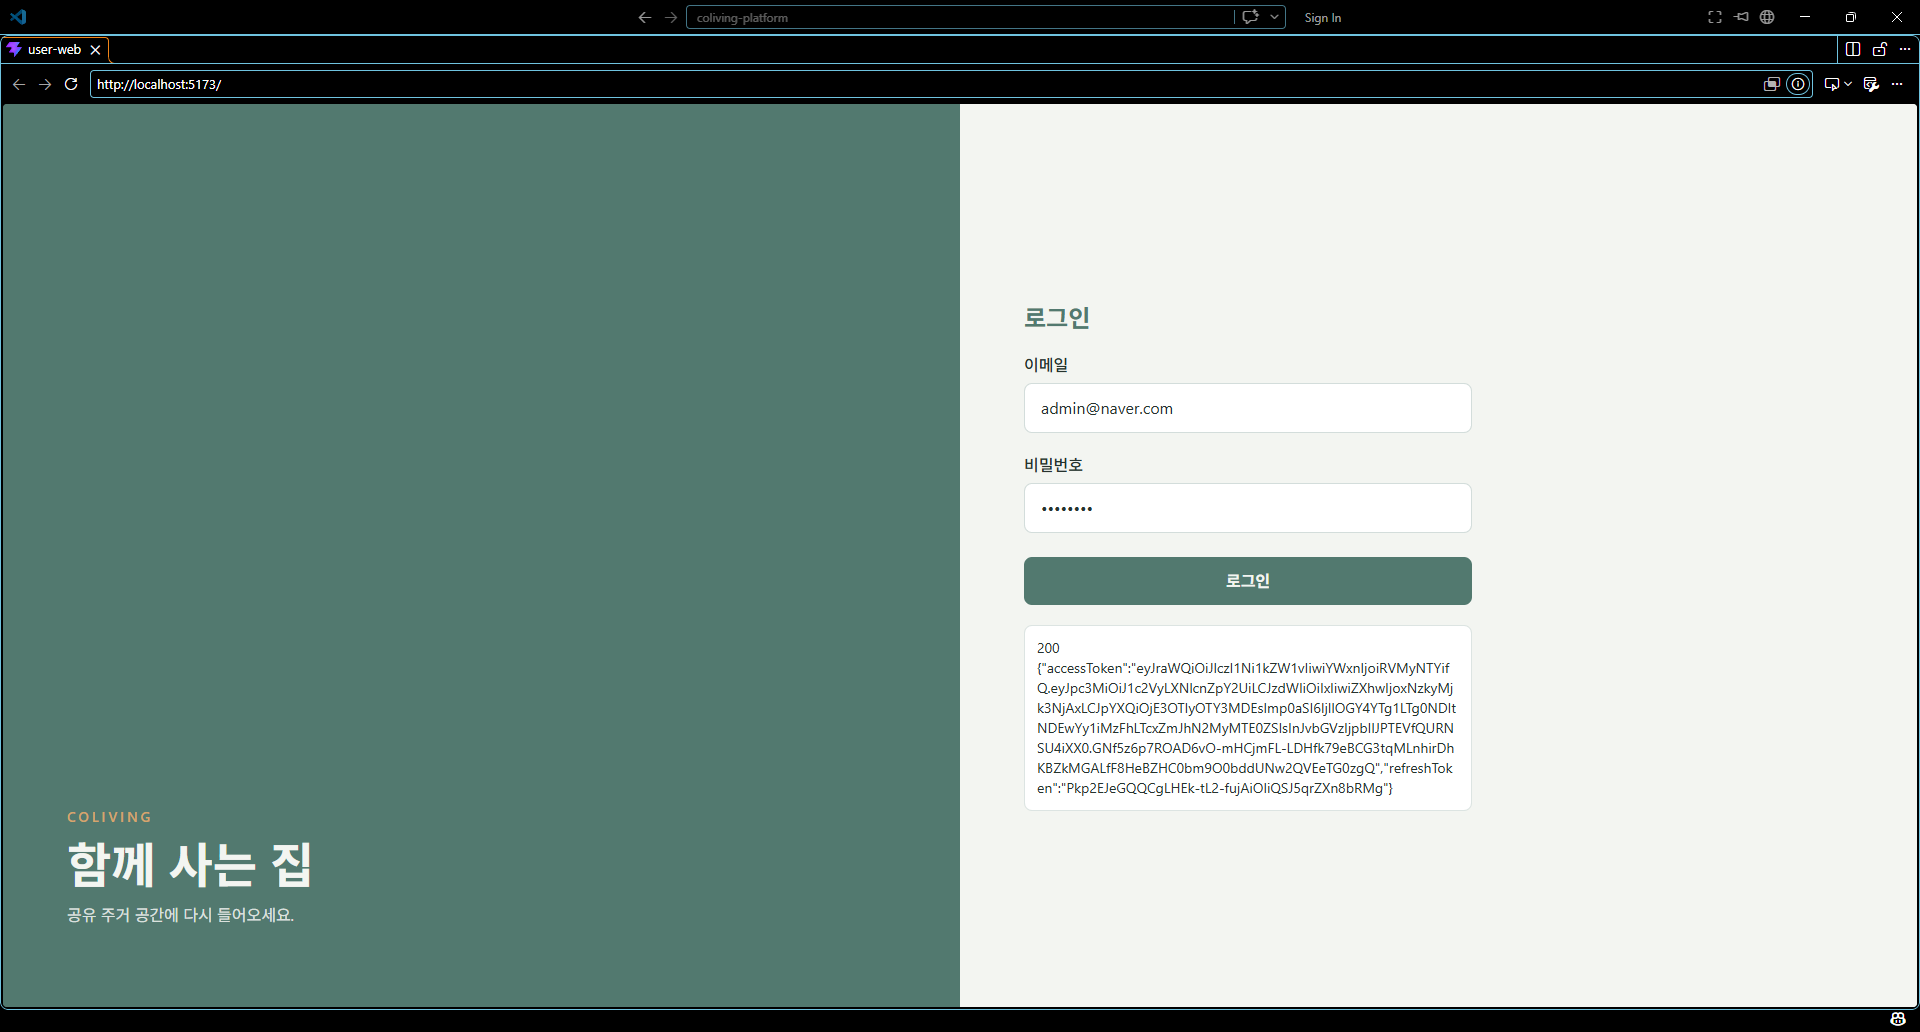
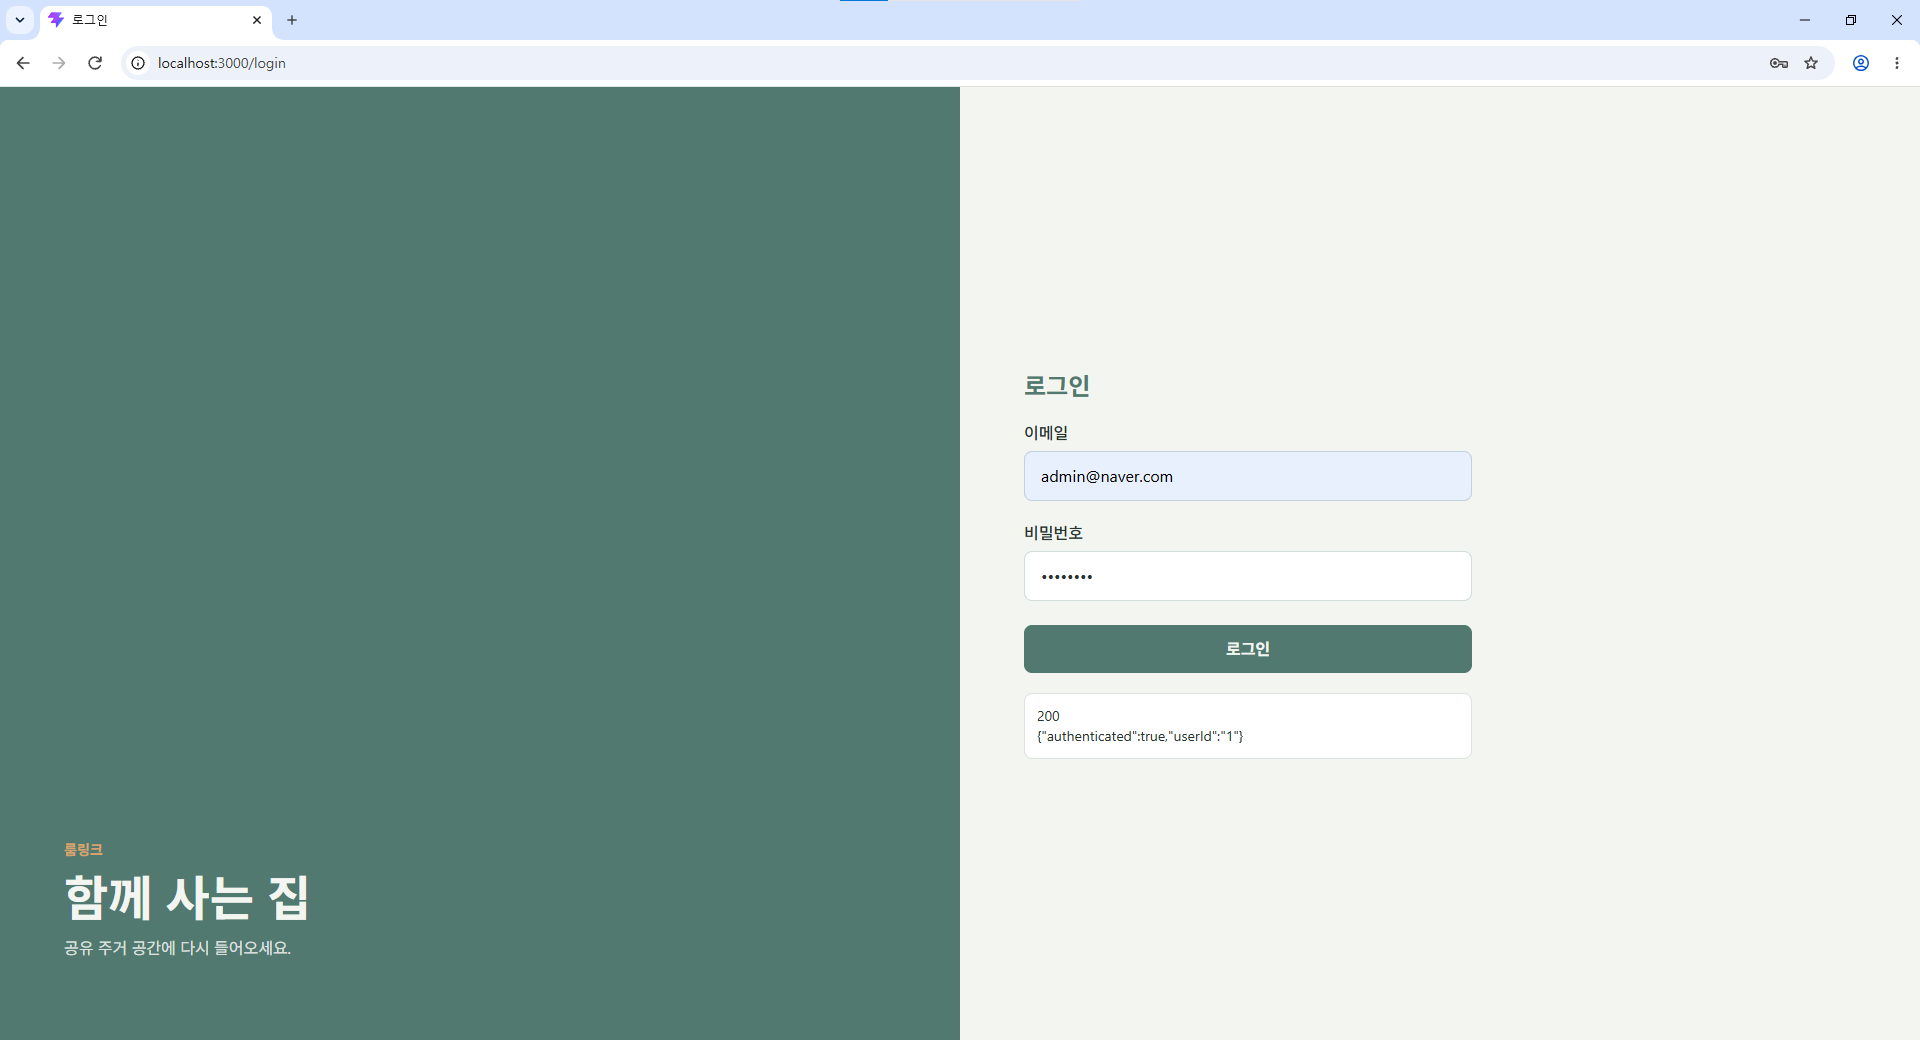
설치 가이드 최신화

diff --git a/docs/설치-가이드.md b/docs/설치-가이드.md
@@ -99,11 +99,11 @@ npm i
 npm run dev
 ```
 
-4. http://localhost:5173/login 에 접속합니다.
+4. http://localhost:3000/login 에 접속합니다.
 5. 아래 계정으로 로그인합니다.
    - 아이디: `admin@naver.com`
    - 비밀번호: `12341234`
-6. 응답에 `accessToken`과 `refreshToken`이 둘 다 있으면 정상입니다.
+6. 응답이 `200`이고 본문이 `{"authenticated":true,"userId":"1"}`이면 정상입니다.
 
 ![로그인 성공](images/login-success.png)
 
